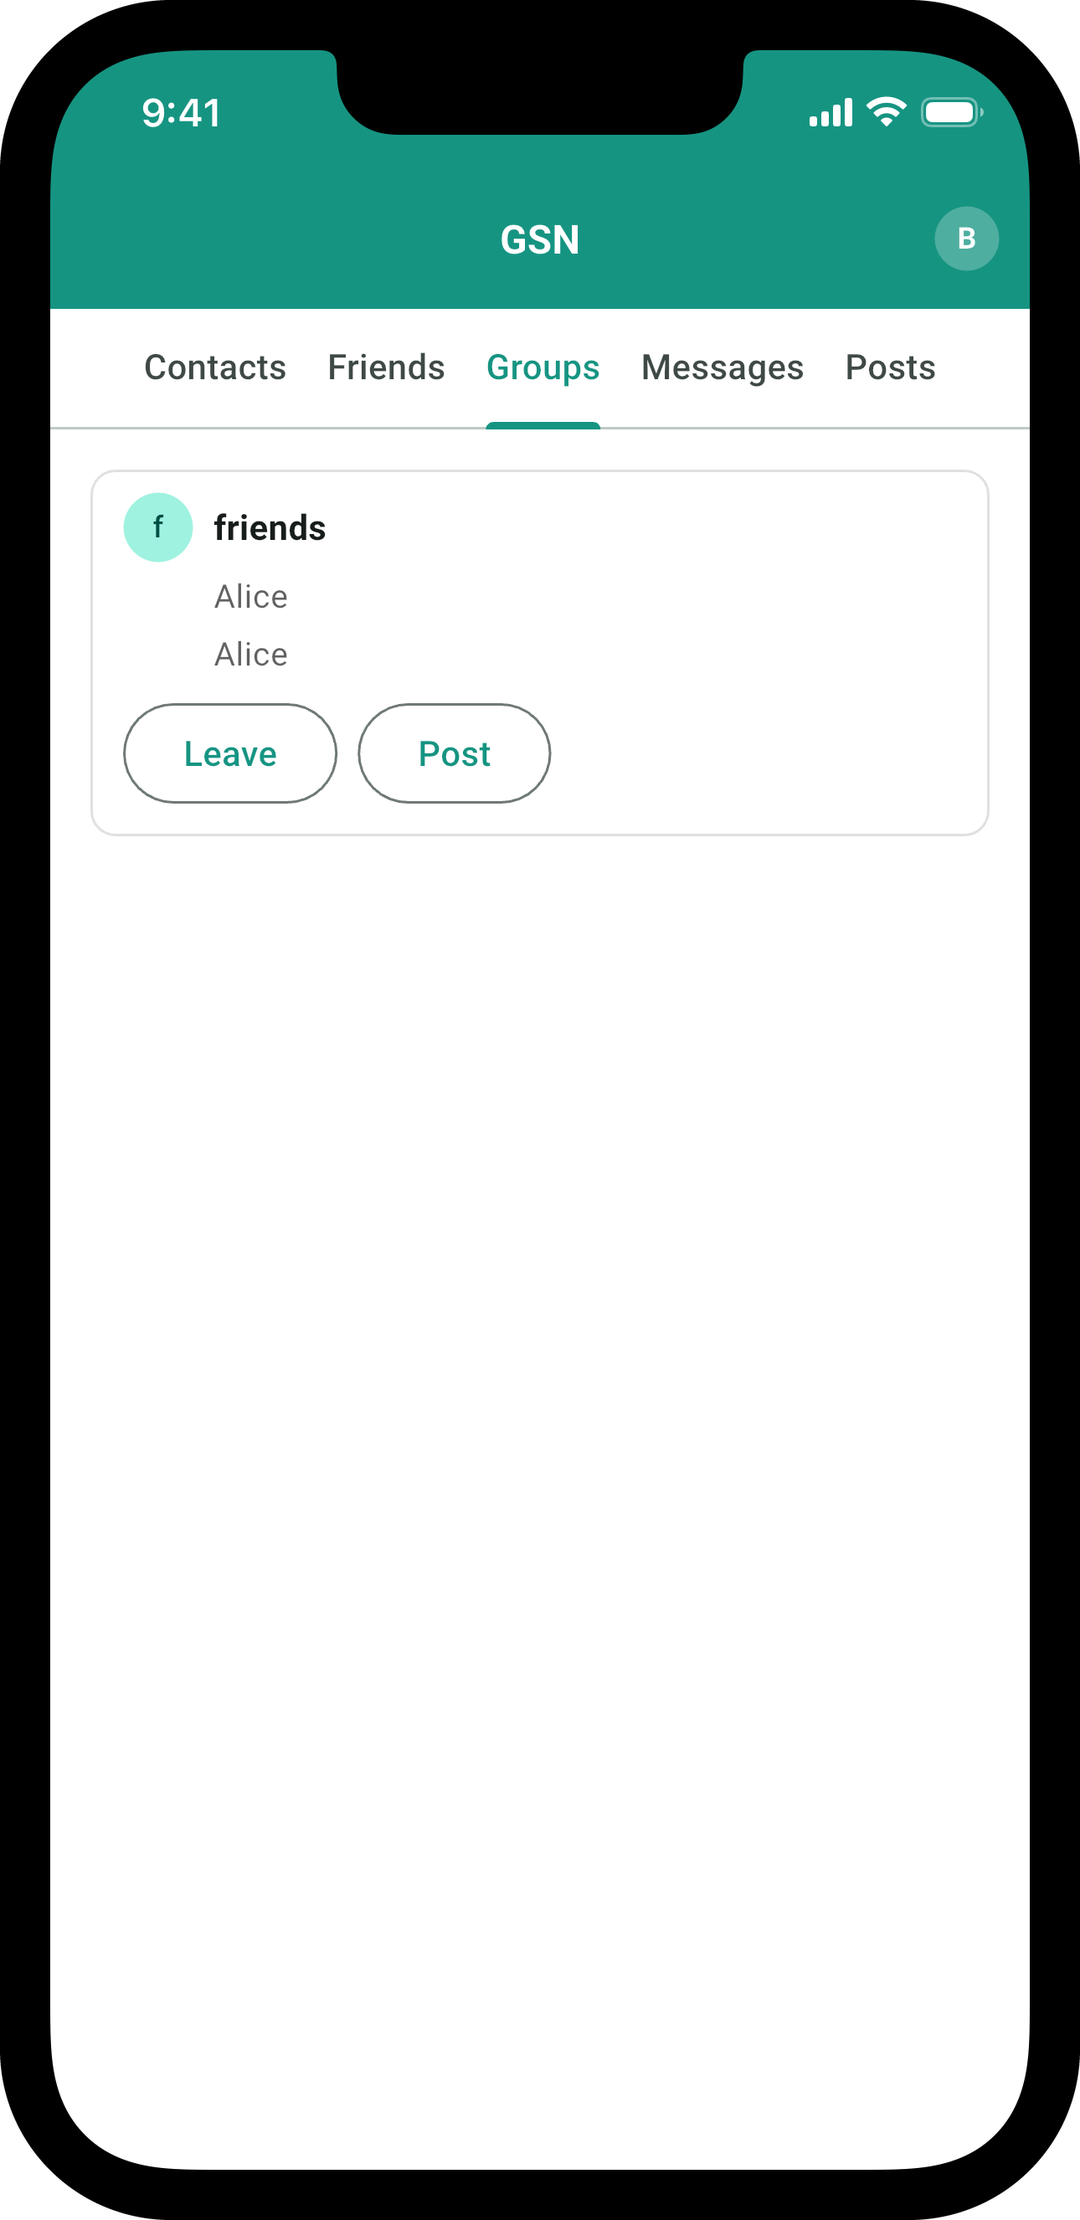
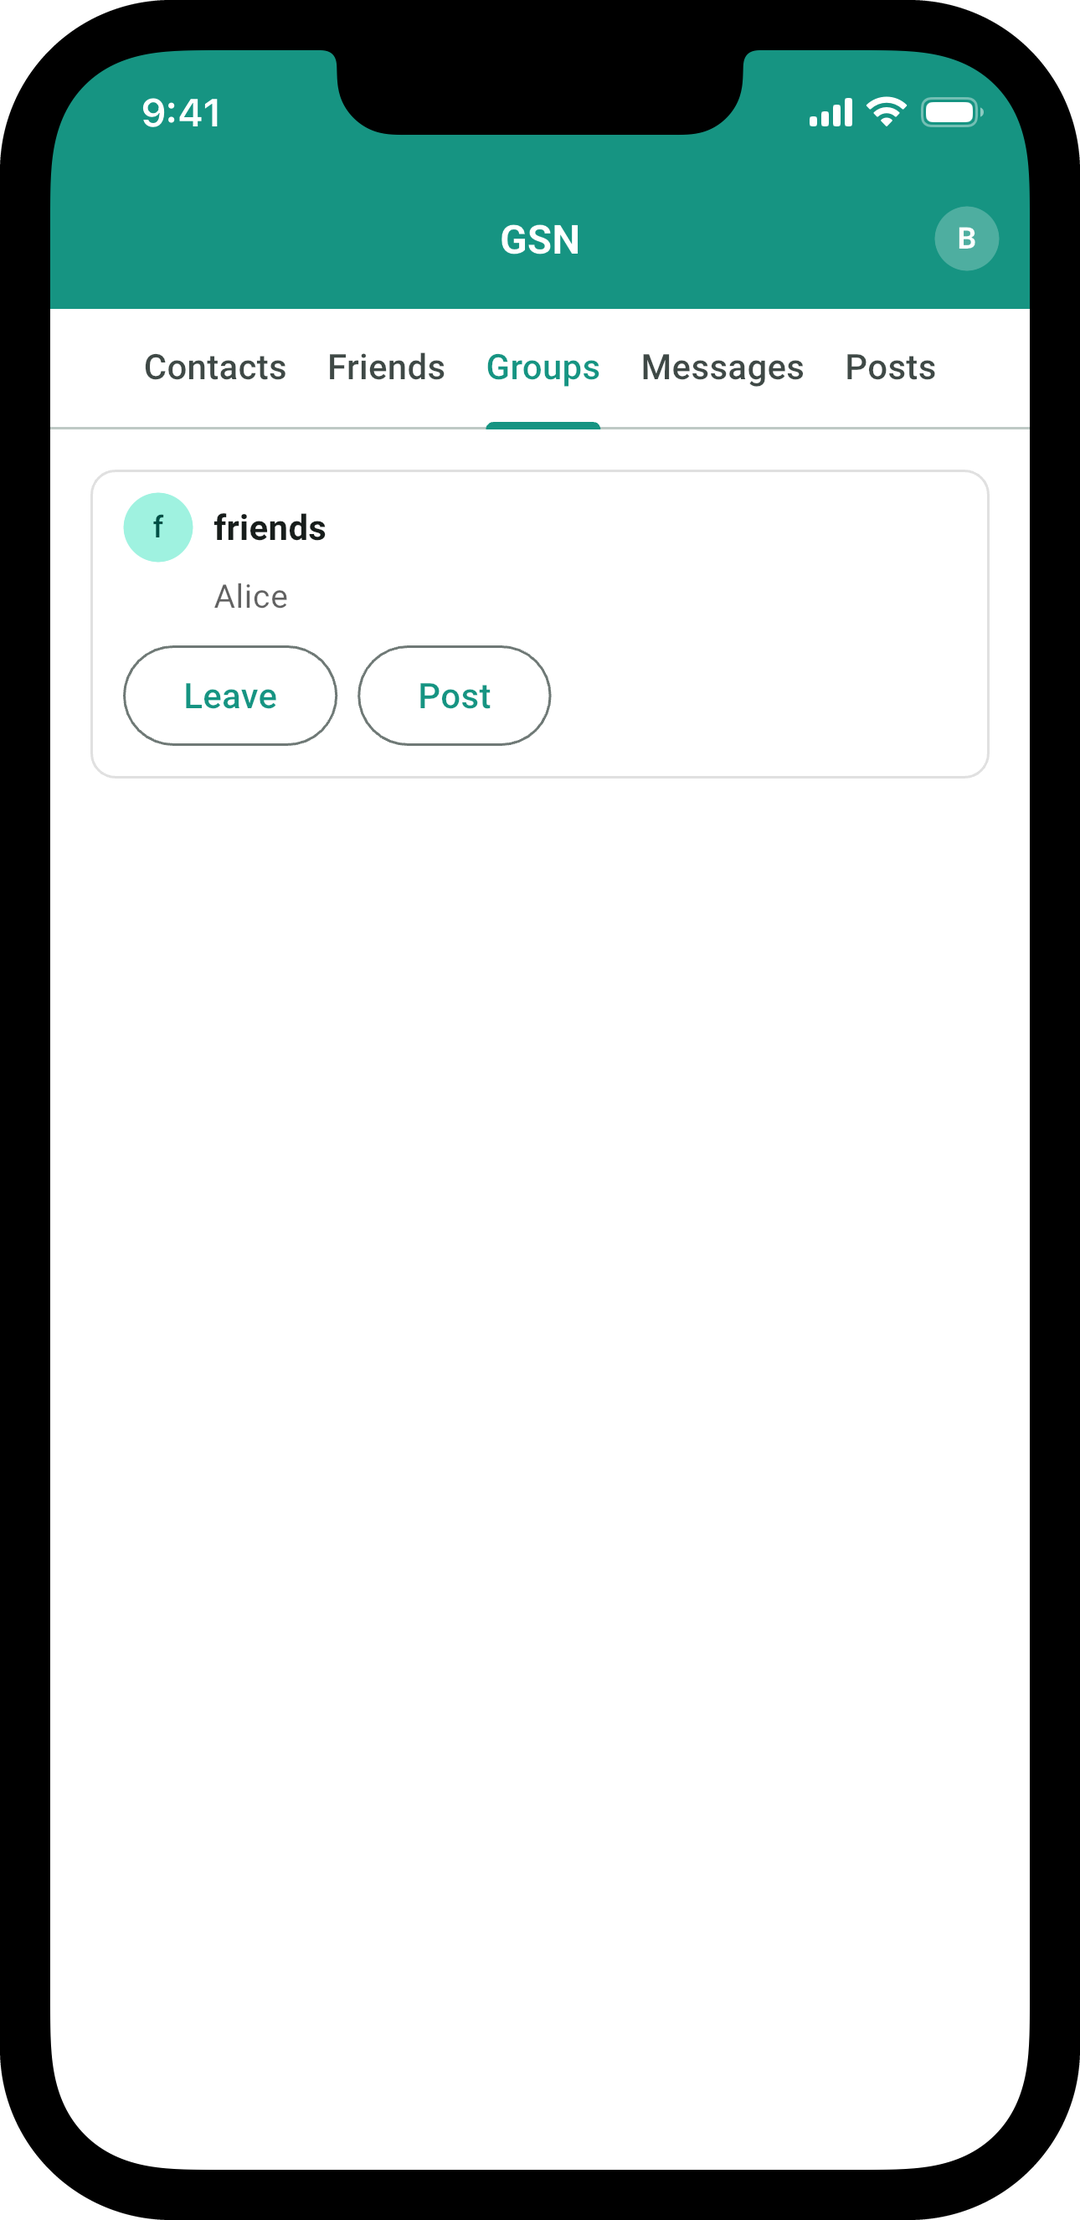
GSN's two group screens retaken on the iOS Simulator on main bf09b157, GLP's mend of the row: the group's row shows Alice once, on Bob's phone and on Alice's; README to match (Mac #1, Code's word of 2026-11-16 16:57 UTC)

Changed region(s): [[0.1222, 0.2797, 0.4583, 0.373], [0.4889, 0.3108, 0.5194, 0.3419]]

diff --git a/programs/apps/gsn/screens/README.md b/programs/apps/gsn/screens/README.md
@@ -14,5 +14,5 @@ The script builds the bundled assets (`tool/sync_glp_assets.sh`), boots the simu
 |---|---|
 | `gsn-a-bob-chat.png` | Bob's Friends tab once Alice has sent him Hi Bob (GSN:1): a row for Alice, the atom friend(alice), with Unfriend, GSG's "[Unfriend]", and Message, GSN's "[Message]"; the message itself is listed in his Messages tab. |
 | `gsn-b-bob-asked-to-join.png` | Bob's first tab, Contacts, badged, with GSN's question "Alice asks you to join her group.", under it the atom Alice's role requires, "Friends: Bob", the group's name, friends, signed by Alice, and the answers yes and no at its top (GSN:3); under it his name, Acquaint with its field person, Create with its field name, and Alice's row with Introduce. |
-| `gsn-c-bob-group.png` | Bob's Groups tab once he has joined and posted Hi all (GSN:3, GSN:4): the group friends, under it Alice twice, its leader and the signer of its name, with Leave, GSN's "[Leave]", and Post, GSN's "[Post]"; the post delivered to him is listed in his Posts tab. |
-| `gsn-d-alice-group.png` | Alice's Groups tab with the group friends she leads (GSN:2, GSN:3, GSN:4): the group's name, under it Alice twice, and Post own, GSN's "[Post own]", the leader's act drawn in the group's row. |
+| `gsn-c-bob-group.png` | Bob's Groups tab once he has joined and posted Hi all (GSN:3, GSN:4): the group friends, under it Alice, its leader, with Leave, GSN's "[Leave]", and Post, GSN's "[Post]"; the post delivered to him is listed in his Posts tab. |
+| `gsn-d-alice-group.png` | Alice's Groups tab with the group friends she leads (GSN:2, GSN:3, GSN:4): the group's name, under it Alice, its leader, and Post own, GSN's "[Post own]", the leader's act drawn in the group's row. |
